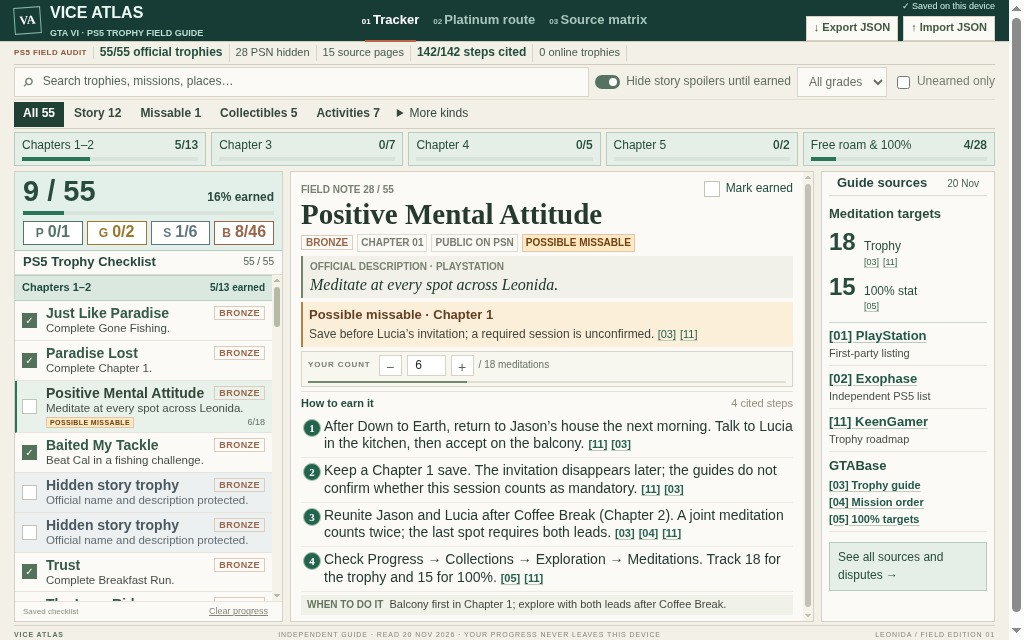
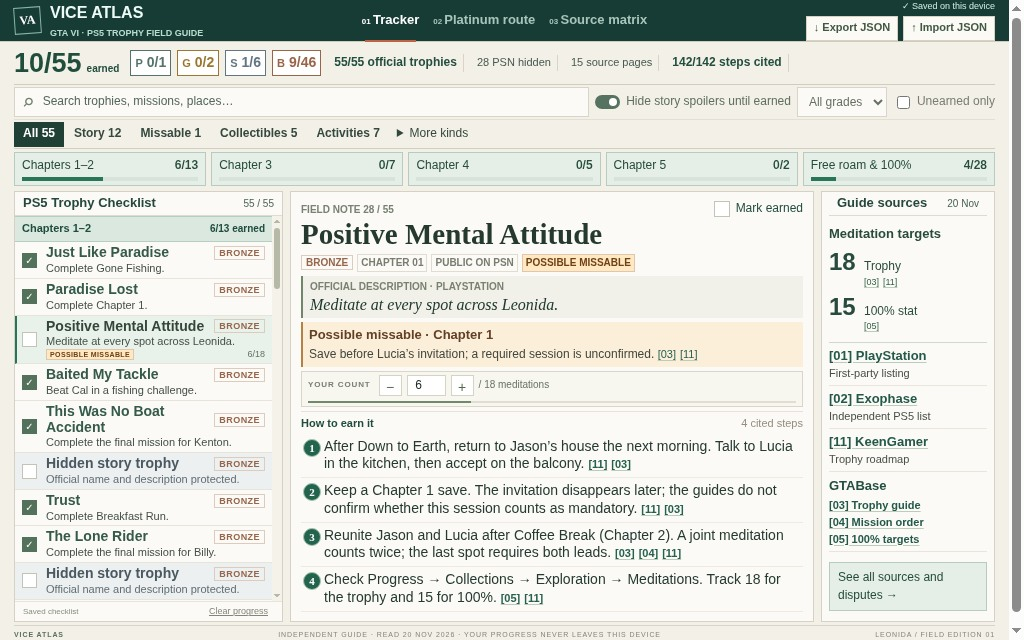
Expose exact grade progress above a denser spoiler-safe checklist

Changed region(s): [[0.0, 0.0625, 0.9688, 0.9688]]

diff --git a/main.ts b/main.ts
@@ -1,23 +1,53 @@
-import { cpSync, mkdirSync, writeFileSync } from 'node:fs';
+import { cpSync, mkdirSync, readFileSync, readdirSync, writeFileSync } from 'node:fs';
 import { join, resolve } from 'node:path';
 import { fileURLToPath } from 'node:url';
 import { buildDossier } from './vendor/makefun-frontend.ts';
 
-const root = fileURLToPath(new URL('.', import.meta.url));
-const output = resolve(process.env.MAKEFUN_OUTPUT_DIR || '/output');
-const releaseDirectories = ['app', 'screenshots'] as const;
-mkdirSync(output, { recursive: true });
-for (const name of releaseDirectories) {
-  const source = join(root, name);
-  const destination = join(output, name);
-  if (source === destination) throw new Error('Choose a separate output directory.');
-  cpSync(source, destination, { recursive: true });
+const repository = fileURLToPath(new URL('.', import.meta.url));
+const outputDirectory = resolve(process.env.MAKEFUN_OUTPUT_DIR || '/output');
+
+function assertCatalogCoverage() {
+  const catalog = JSON.parse(readFileSync(join(repository, 'app/data/trophies.json'), 'utf8'));
+  const records = catalog.trophies;
+  if (!Array.isArray(records) || records.length !== 55) throw new Error('The PS5 catalog must contain 55 trophies.');
+  if (new Set(records.map((record) => record.name)).size !== 55) throw new Error('Trophy names must be unique.');
+  const expectedGrades = { platinum: 1, gold: 2, silver: 6, bronze: 46 };
+  for (const [grade, expected] of Object.entries(expectedGrades)) {
+    if (records.filter((record) => record.grade === grade).length !== expected) throw new Error(`Incorrect ${grade} total.`);
+  }
+  if (records.filter((record) => record.hidden).length !== 28) throw new Error('Expected 28 PSN-hidden trophies.');
+  const sourceIds = new Set(catalog.sources.map((source) => source.id));
+  for (const record of records) {
+    if (!record.guide?.trim() || !record.description?.trim()) throw new Error(`Missing guide or official description: ${record.name}`);
+    if (!record.steps?.length) throw new Error(`No steps: ${record.name}`);
+    for (const step of record.steps) {
+      if (!step.text?.trim() || !step.sources?.length || step.sources.some((id) => !sourceIds.has(id))) {
+        throw new Error(`Uncited or incomplete guidance: ${record.name}`);
+      }
+    }
+  }
 }
 
-const packed = buildDossier(output, {
+function assertCaptureManifest() {
+  const manifest = JSON.parse(readFileSync(join(repository, 'shots.json'), 'utf8'));
+  const screenshots = readdirSync(join(repository, 'screenshots')).filter((name) => !name.startsWith('.')).sort();
+  const planned = manifest.map((shot) => shot.file).sort();
+  if (screenshots.length !== 4 || JSON.stringify(screenshots) !== JSON.stringify(planned)) {
+    throw new Error('The four browser screenshots must match shots.json.');
+  }
+}
+
+assertCatalogCoverage();
+assertCaptureManifest();
+if (outputDirectory === resolve(repository)) throw new Error('The output must be separate from the repository.');
+mkdirSync(outputDirectory, { recursive: true });
+for (const directory of ['app', 'screenshots']) {
+  cpSync(join(repository, directory), join(outputDirectory, directory), { recursive: true });
+}
+const dossier = buildDossier(outputDirectory, {
   text_max_bytes: 160 * 1024,
   screenshots: { max: 4, max_bytes: 256 * 1024 },
   app_max_files: 993,
   app_max_bytes: 48 * 1024 * 1024,
 });
-writeFileSync(join(output, 'dossier.json'), packed);
+writeFileSync(join(outputDirectory, 'dossier.json'), dossier);

diff --git a/app/style.css b/app/style.css
@@ -441,3 +441,30 @@ body[data-view="roadmap"] .phase h2 { font-size: 23px; }
   body[data-view="sources"] .source-coverage span { display:inline-block; width:19px; }
   body[data-view="sources"] .source-coverage progress { display:inline-block; vertical-align:middle; width:42px; height:4px; margin:0; }
 }
+@media (min-width:901px) and (max-width:1130px) {
+  .checklist-score { padding:4px 8px; }
+  .score-label b { font-size:26px; }
+  #earned-bar { height:3px; margin:3px 0; }
+  .grade-total { padding:2px 0; }
+  .grade-total b { font-size:13px; }
+  .grade-total abbr { font-size:10px; }
+  .trophy-row { min-height:35px; padding-top:3px; padding-bottom:3px; }
+  .trophy-open .row-description { font-size:11px; line-height:1.18; }
+  .trophy-open > strong { font-size:14px; line-height:1.12; }
+}
+#compact-progress { display:none; }
+@media (min-width:901px) and (max-width:1130px) {
+  body[data-view="tracker"] .audit-strip { height:43px; gap:7px; }
+  body[data-view="tracker"] .audit-strip > strong,
+  body[data-view="tracker"] .audit-strip > span:last-child { display:none; }
+  body[data-view="tracker"] #compact-progress { display:flex; align-items:center; gap:6px; padding:0; border:0; }
+  .compact-earned { display:flex; align-items:baseline; gap:5px; margin-right:5px; color:#214d3d; }
+  .compact-earned b { font-size:27px; line-height:1; }
+  .compact-earned span { font-size:10px; font-weight:700; }
+  #compact-progress .grade-total { display:flex; align-items:baseline; gap:4px; padding:4px; }
+  #compact-progress .grade-total abbr { font-size:11px; }
+  #compact-progress .grade-total b { font-size:14px; }
+  body[data-view="tracker"] .checklist-score { display:none; }
+  body[data-view="tracker"].risk-in-detail .tracker-grid { height:calc(100vh - 204px); }
+  body[data-view="tracker"] .guide-detail .repeats-step-window { display:none; }
+}

diff --git a/app/index.html b/app/index.html
@@ -20,7 +20,7 @@
   <div class="backup-controls"><span id="save-status">✓ Saved on this device</span><div><button id="export">↓ Export JSON</button><label class="import-control">↑ Import JSON<input id="import" type="file" accept=".json,application/json" aria-label="Import progress JSON"></label></div></div>
 </header>
 <main>
-  <section class="audit-strip" aria-label="Coverage audit"><strong>PS5 FIELD AUDIT</strong><span id="audit-coverage"></span><span>28 PSN hidden</span><span id="audit-sources"></span><span id="audit-steps"></span><span>0 online trophies</span></section>
+  <section class="audit-strip" aria-label="Coverage audit"><div id="compact-progress" aria-label="Saved trophy progress"></div><strong>PS5 FIELD AUDIT</strong><span id="audit-coverage"></span><span>28 PSN hidden</span><span id="audit-sources"></span><span id="audit-steps"></span><span>0 online trophies</span></section>
   <aside class="risk-banner"><span class="risk-icon">!</span><div><b>CHAPTER 1 PRECAUTION</b><span> Keep a save before Lucia’s balcony meditation. The session may be missable; its trophy requirement is unconfirmed.</span></div><button id="show-risk">Open guide ↗</button></aside>
   <section class="view" id="tracker-view">
     <div class="filters-top">

diff --git a/app/app.js b/app/app.js
@@ -118,6 +118,10 @@ function stats() {
     return item;
   });
   $('#grade-progress').replaceChildren(...grades);
+  const compact = $('#compact-progress');
+  const total = el('div', 'compact-earned');
+  total.append(el('b', '', `${count}/${totalTrophies}`), el('span', '', 'earned'));
+  compact.replaceChildren(total, ...grades.map((item) => item.cloneNode(true)));
 }
 function selectTrophy(id, scroll = false) {
   state.focus = id;
@@ -289,7 +293,7 @@ function renderDetail(t) {
     steps.append(item);
   }
   detail.append(steps);
-  const availability = el('div', 'availability');
+  const availability = el('div', `availability${t.id === 28 ? ' repeats-step-window' : ''}`);
   availability.append(el('b', '', 'WHEN TO DO IT'), el('p', '', t.availability));
   detail.append(availability);
   if (t.id === 14) {
